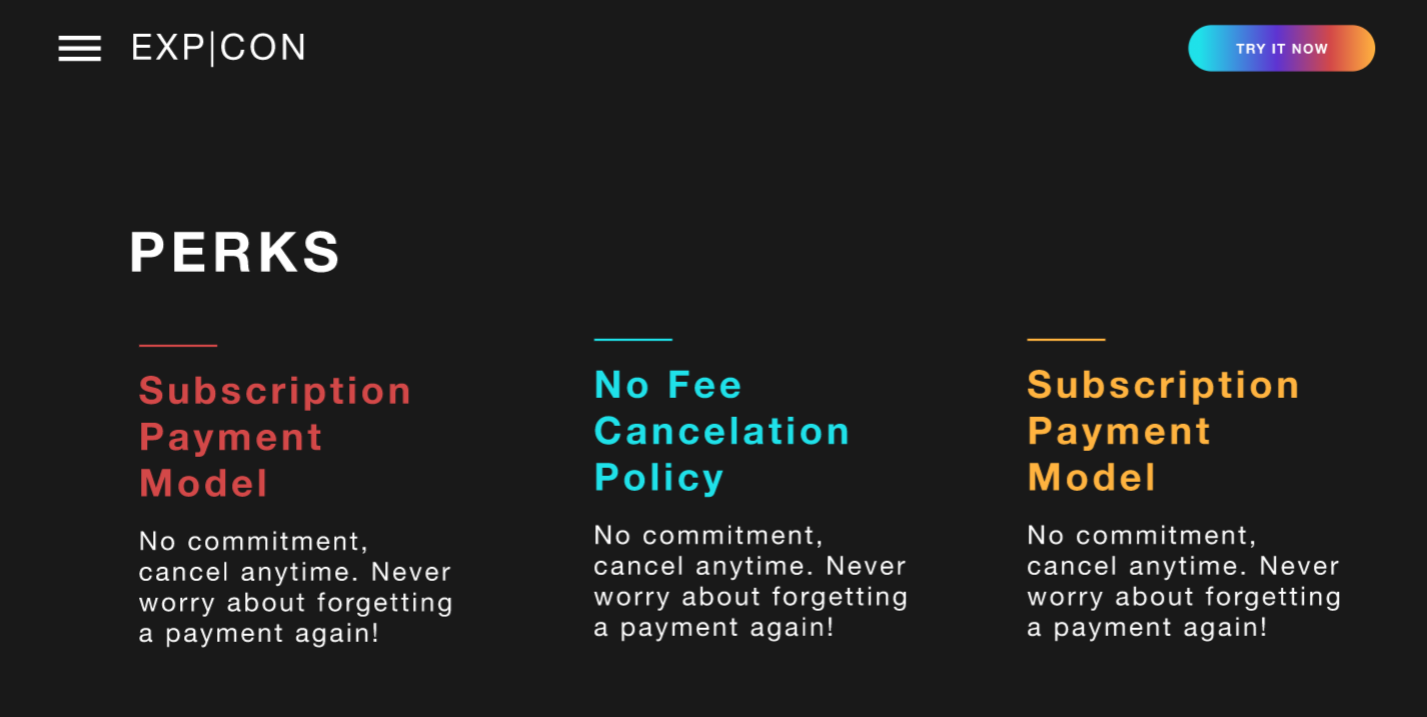
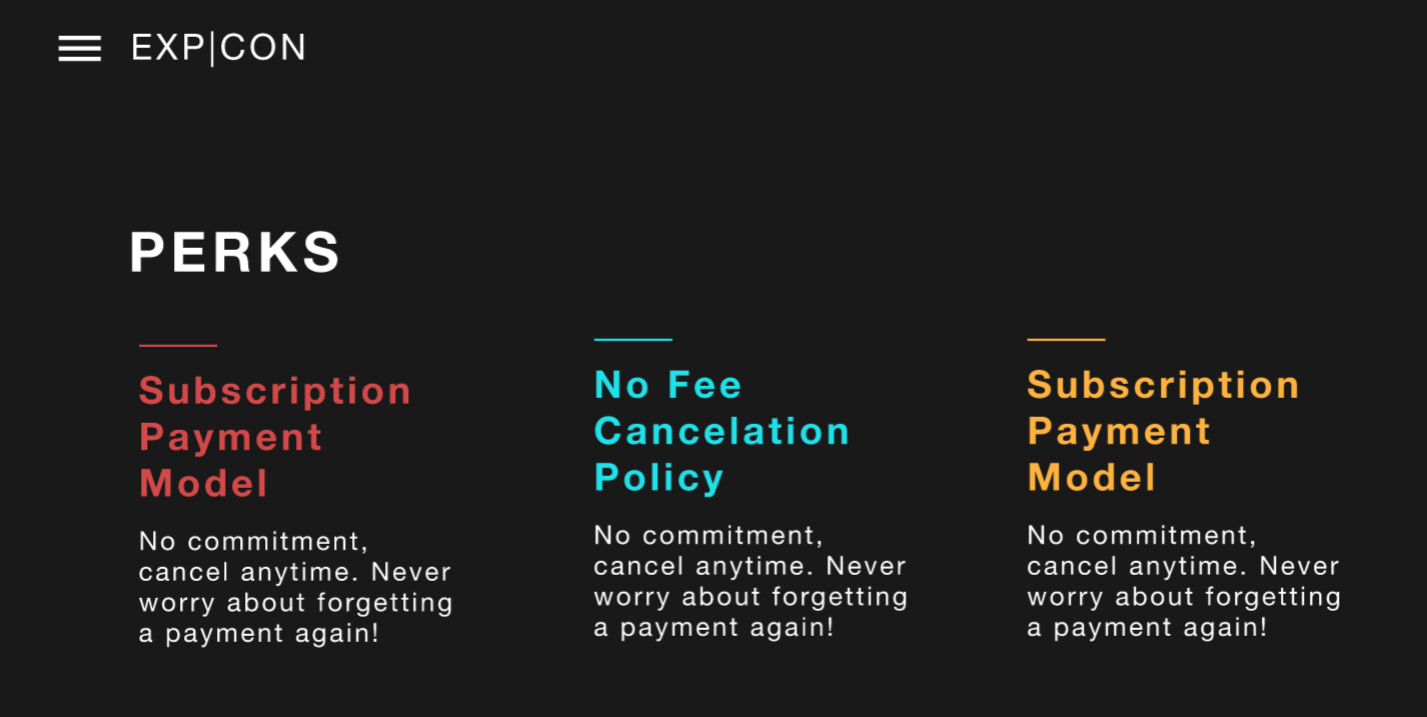
update position

Changed region(s): [[0.8325, 0.0307, 0.9867, 0.1227]]

diff --git a/index.html b/index.html
@@ -133,6 +133,9 @@
                     </section>
                     <section class="panel" id="panel3" style="background-image: url(images/yellow_page.png);background-repeat: no-repeat;background-size: 100%">
                         <h1></h1>
+                        <button class="button" id="button_in_page3_try_it_now"onclick="window.location.href='subpage/PricingPage.html'">
+                            <span>TRY IT NOW</span>
+                        </button>
                     </section>
                     <section class="panel panelColor" id="panel4" style="background-image: url(images/black_page.png);background-repeat: no-repeat;background-size: 100%">
                         <h1></h1>
@@ -159,7 +162,17 @@
 
                 click_button_in_page2.target.style.setProperty('--x', x + 'px');
                 click_button_in_page2.target.style.setProperty('--y', y + 'px');
+
         };
+            document.querySelector('#button_in_page3_try_it_now').onmousemove = function (click_button_in_page2) {
+
+                var x = click_button_in_page2.pageX - click_button_in_page2.target.offsetLeft;
+                var y = click_button_in_page2.pageY - click_button_in_page2.target.offsetTop;
+
+                click_button_in_page2.target.style.setProperty('--x', x + 'px');
+                click_button_in_page2.target.style.setProperty('--y', y + 'px');
+
+            };
             document.querySelector('#button_in_page2_see_demo').onmousemove = function (click_button_in_page2) {
 
                 var x = click_button_in_page2.pageX - click_button_in_page2.target.offsetLeft;
